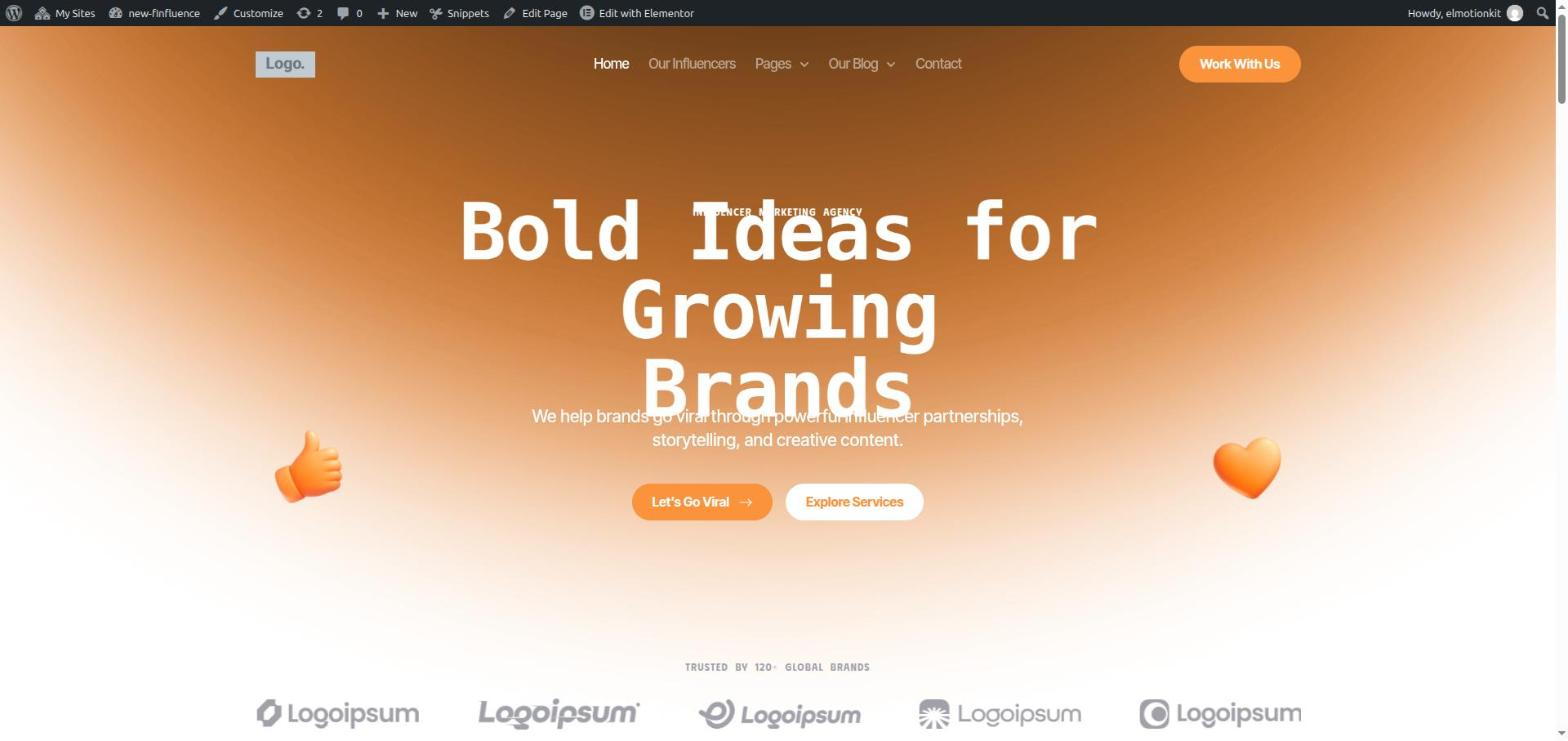
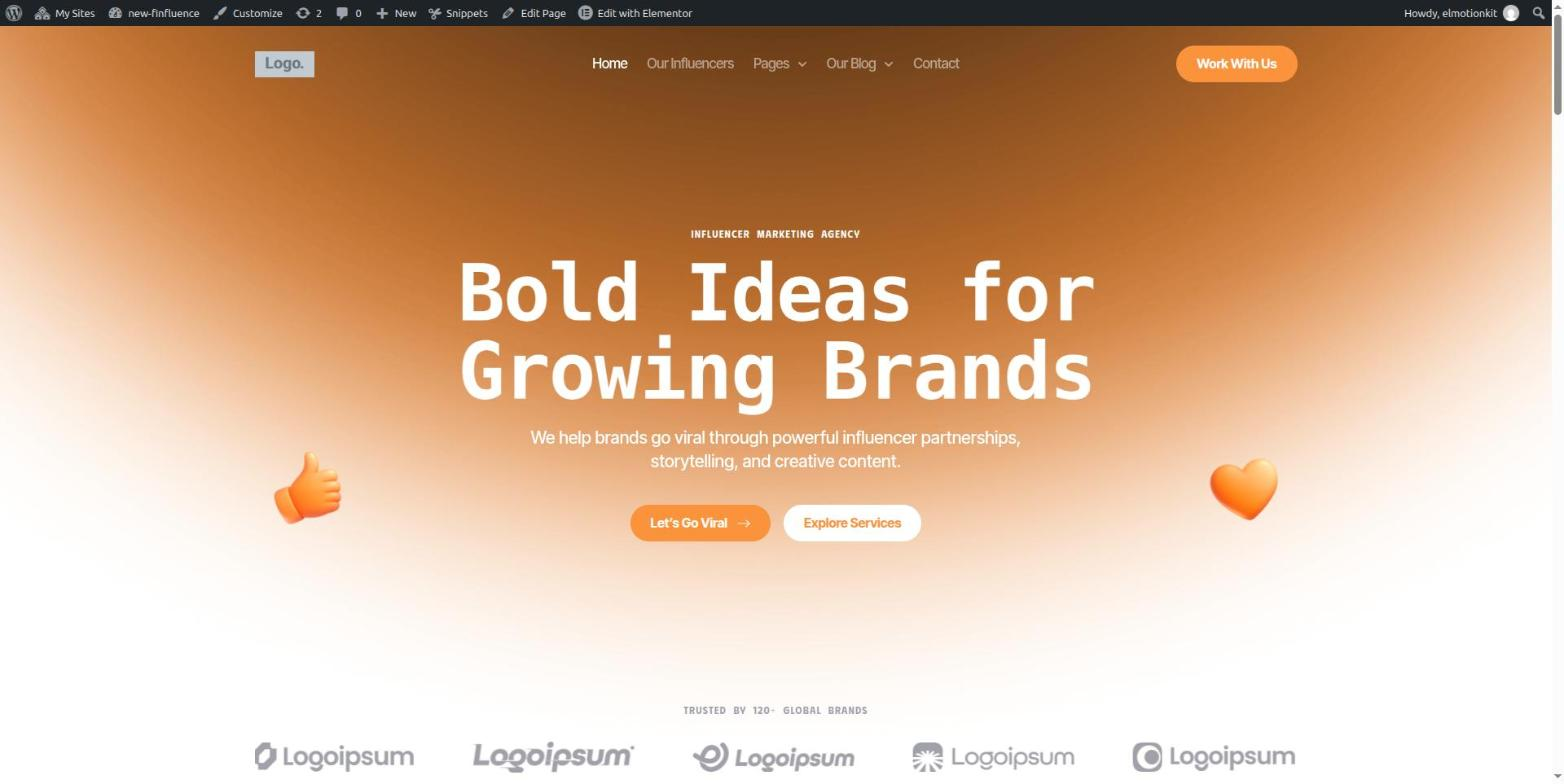
Update README screenshots 7 and 8
Show the text and font example with a 860px Desktop box width so the
heading fits on two lines instead of overlapping the paragraph.

diff --git a/README.md b/README.md
@@ -82,11 +82,11 @@ Examples:
 
 ![Backups](screenshots/6-backups.jpg)
 
-**7. Text layers: text, font file details, a simple Weight control with notes, and styles per screen size**
+**7. Text layers: new text, a new font file (Bold 700, read from the file), Weight and a wider Desktop box (860px)**
 
 ![Text and font](screenshots/7-text-and-font.jpg)
 
-**8. Result: the animated heading uses the new text and font**
+**8. Result: the animated heading uses the new text and font, on two lines that fit the wider box**
 
 ![Text and font result](screenshots/8-text-and-font-result.jpg)
 
